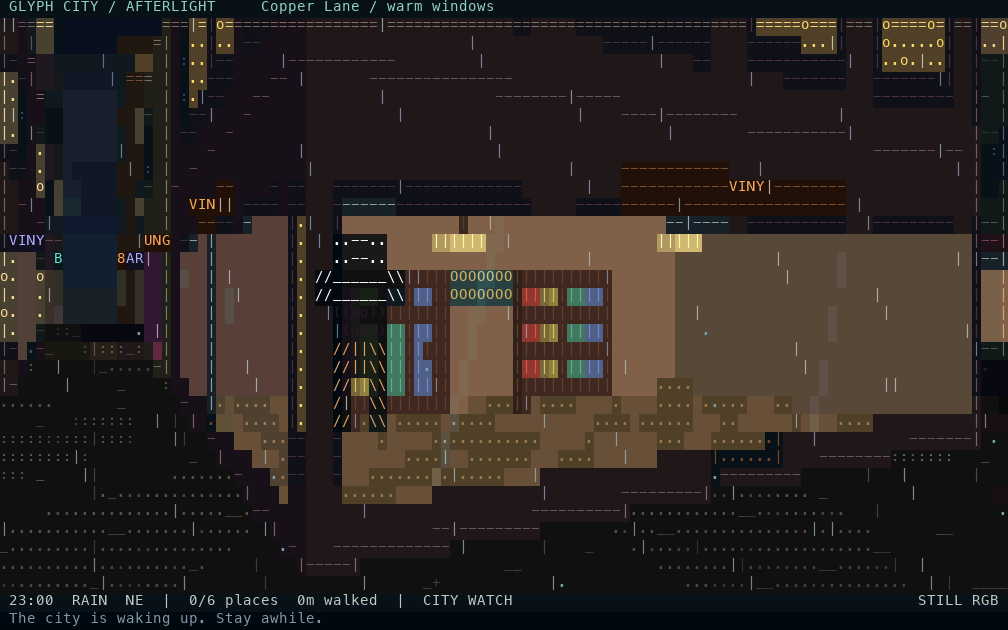
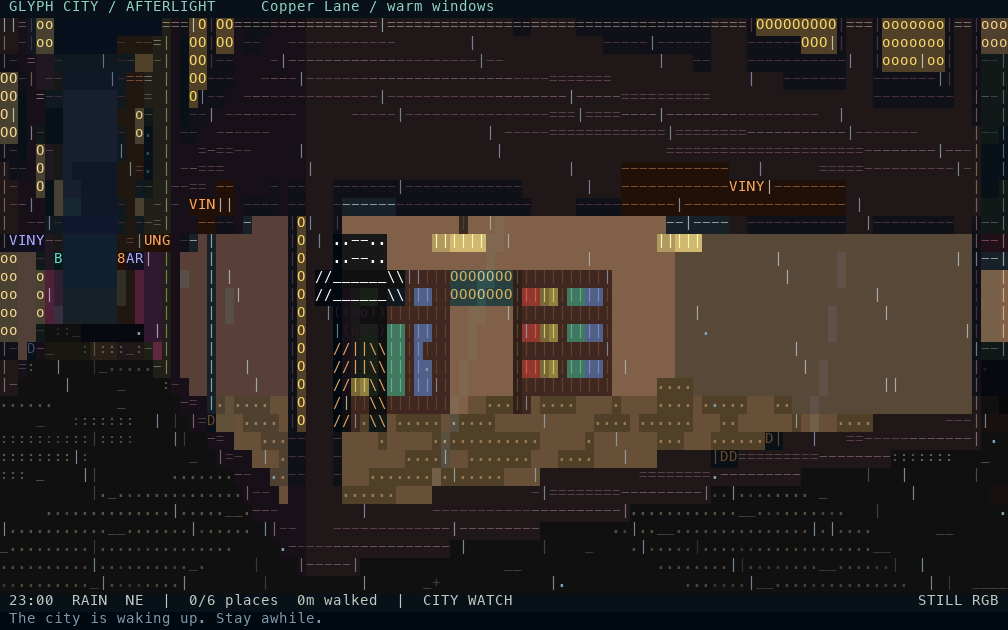
Deepen readable ASCII building details

diff --git a/glyph_city/render.py b/glyph_city/render.py
@@ -493,8 +493,14 @@ class Renderer:
         seam=min(u%pane,pane-u%pane)
         if seam<.035 or z<.29 or z>2.055:
             return ('|' if seam<.035 else '-',(139,165,167),(25,36,41),False)
-        ch,fg,bg=room_pixel(b.sign,span,depth,u,z,direction) if dist<18 else (
-            ' ',(174,148,111),(60,48,39))
+        if dist<28:
+            ch,fg,bg=room_pixel(b.sign,span,depth,u,z,direction)
+            # Preserve a few recognizable interior marks at middle distance,
+            # while thinning the furniture so panes remain transparent.
+            if dist>=18 and grain(int(u*9),int(z*9),b.seed)%3:
+                ch=' '
+        else:
+            ch,fg,bg=' ',(174,148,111),(60,48,39)
         length=math.hypot(direction[0],direction[1])
         grazing=1-direction[1]/max(length,1e-6)
         reflection=.025+.11*grazing**3
@@ -516,33 +522,43 @@ class Renderer:
         base=mix(b.color,(224,153,101),self.sunset*.2)
         fg,bg=scale(base,shade),scale(base,shade*(.36+.10*day))
         bay=u%1.65; story=int(z/2.8); level=z%2.8
+        facade_detail=max(0.0,min(1.0,(34.0-dist)/18.0))
+        window_seed=grain(int(u/1.65),story,b.seed)
         emits=False
         if b.height-z<.23:
             ch='='; fg=scale(base,shade*1.35)
         elif level<.13:
             ch='-'; fg=scale(base,shade*1.2)
+        elif facade_detail>.18 and (level<.24 or level>2.58):
+            # Floor slabs give tall flat faces a readable vertical scale.
+            ch='-' if window_seed%3 else '='
+            fg=scale(base,shade*.98)
         elif story==0 and 2.15<z<2.5 and abs(u-span/2)<len(b.sign)*.26:
             ch='-'; fg=scale(b.neon,.5); bg=scale(b.neon,.14); emits=True
         elif .18<bay<1.48 and .48<level<2.24:
-            lit=(grain(int(u/1.65),story,b.seed)%100)<(18+night*42)
+            lit=(window_seed%100)<(18+night*42)
             # Frames and room surfaces use color blocks. Filling every pane
             # with furniture glyphs used to obscure the building silhouette.
             edge=bay<.36 or bay>1.30 or level<.82 or level>1.98
             if edge:
-                ch='|' if dist<18 and .82<level<1.98 else '-' if dist<18 else ' '
+                ch='|' if facade_detail>.48 and .82<level<1.98 else '-' if facade_detail>.28 else ' '
                 fg=scale(base,shade*.82); bg=scale((24,29,38),.8)
             elif lit:
                 glow=mix((255,190,92),b.neon,.2)
                 glass=mix((20,27,38),glow,.26+.12*night)
                 fg=scale(glow,.9+.3*night); bg=scale(glass,.78)
-                ch=('o' if grain(int(u*11),int(z*11),b.seed)%7==0 else
-                    ' ' if dist>=18 else '.')
+                if facade_detail>.68:
+                    ch='O' if window_seed%5 else 'o'
+                elif facade_detail>.32:
+                    ch='o' if window_seed%3 else ' '
+                else:
+                    ch=' '
                 emits=True
             else:
-                ch=':' if dist<18 and int(level*8)%4==0 else ' '
+                ch='.' if facade_detail>.48 and window_seed%3==0 else ' '
                 fg=mix((49,89,119),self.fog,.25); bg=scale(fg,.25)
         elif story==0 and abs(u-span/2)<.42 and z<1.9:
-            ch='|' if abs(u-span/2)>.3 else '.'
+            ch='|' if abs(u-span/2)>.3 else 'D' if facade_detail>.35 else '.'
             fg=scale(b.neon,.45); bg=(14,18,24)
         else:
             ch=' '

diff --git a/CHANGELOG.md b/CHANGELOG.md
@@ -2,6 +2,7 @@
 
 ## Current development
 
+- Strengthened hand-authored ASCII building silhouettes with floor bands, window frames, doors, and sparse readable furniture through the middle distance.
 - Added distance-faded ASCII ground materials: staggered paving joints, curbs and drains, asphalt speckles and crossings, grass tufts, bridge boards, and nearby wave crests.
 - Extended the ground detail band into middle distance with softer cadence, so ASCII paving, road marks, grass, bridge boards, and wave lines remain visible farther along the view.
 - Simplified facade, pavement, water, cloud, window, and interior glyphs so color blocks and key silhouettes carry the scene without ASCII noise.
